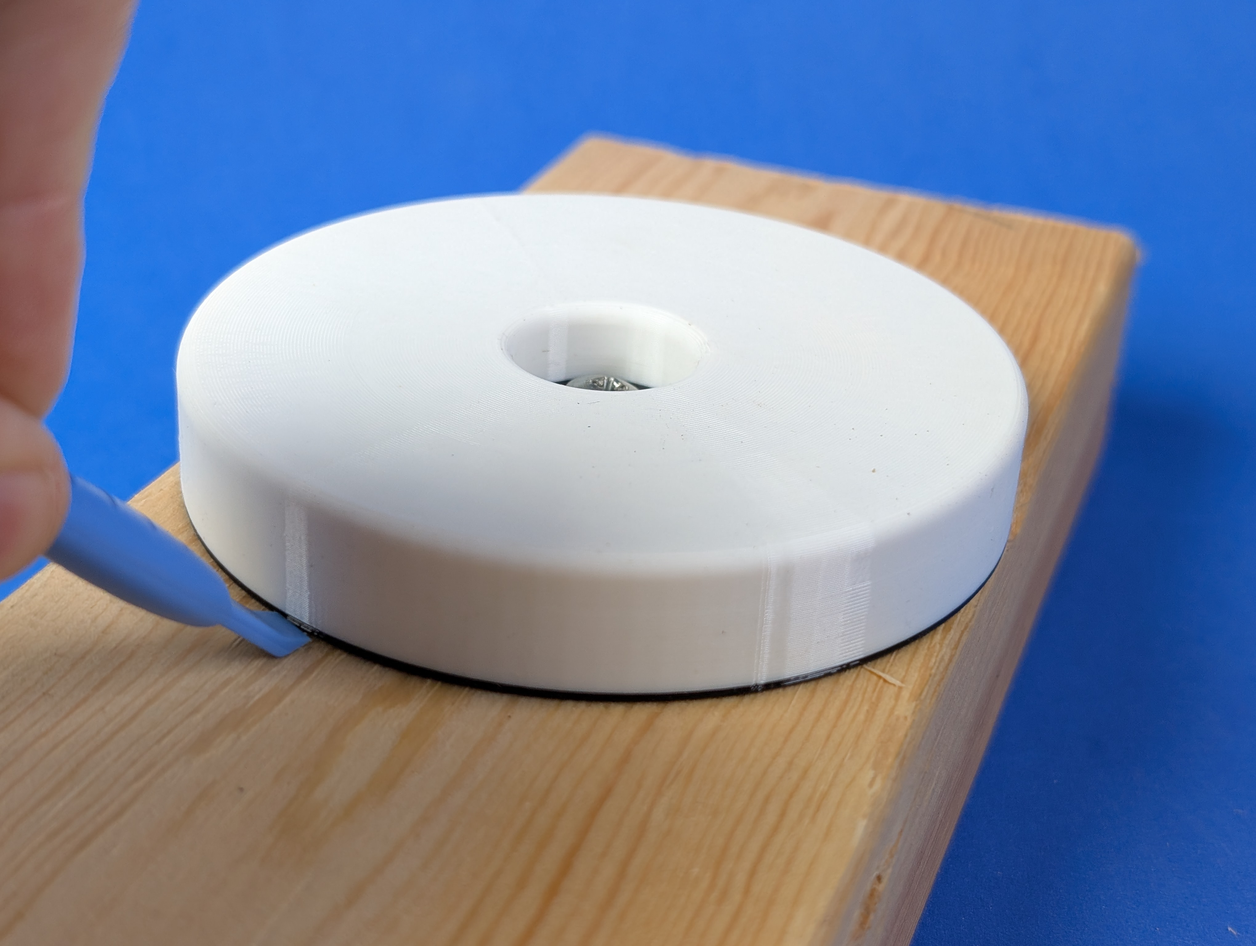
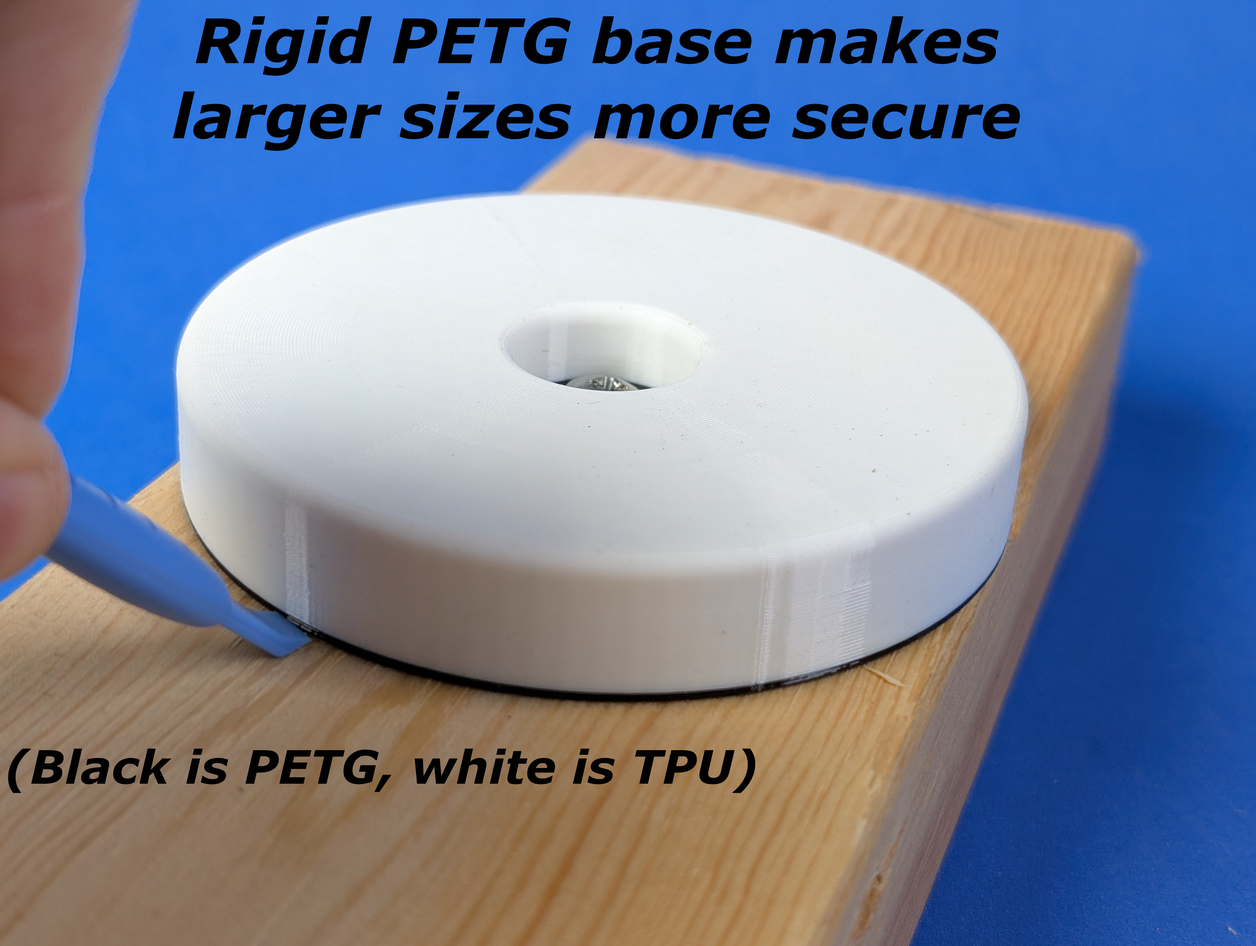
add link to MakerWorld post

Changed region(s): [[0.1245, 0.0, 0.8093, 0.1562], [0.0, 0.7812, 0.6225, 0.8438]]

diff --git a/hardware/equipmentFeet/README.md b/hardware/equipmentFeet/README.md
@@ -2,6 +2,8 @@
 
 This is a 100% parametric, high-utility anti-vibration equipment foot featuring a hard, rigid base plate integrated with a flexible vibration-damping upper body. Ot os designed specifically for dual-toolhead printers like the Bambu Lab X2D.
 
+It is published on MakerWorld: [makerworld.com/en/models/3214790-parametric-foot-for-equipment-furniture-etc](https://makerworld.com/en/models/3214790-parametric-foot-for-equipment-furniture-etc)
+
 In this document I've assumed that the rigid section is PETG (for strength around the screw hole) and the flexible section is TPU (for flexibility).
 
 Since the two materials are physically interlocked rather than chemically bonded, this design is compatible with any combination of materials that can be printed together on a dual-toolhead printer.
